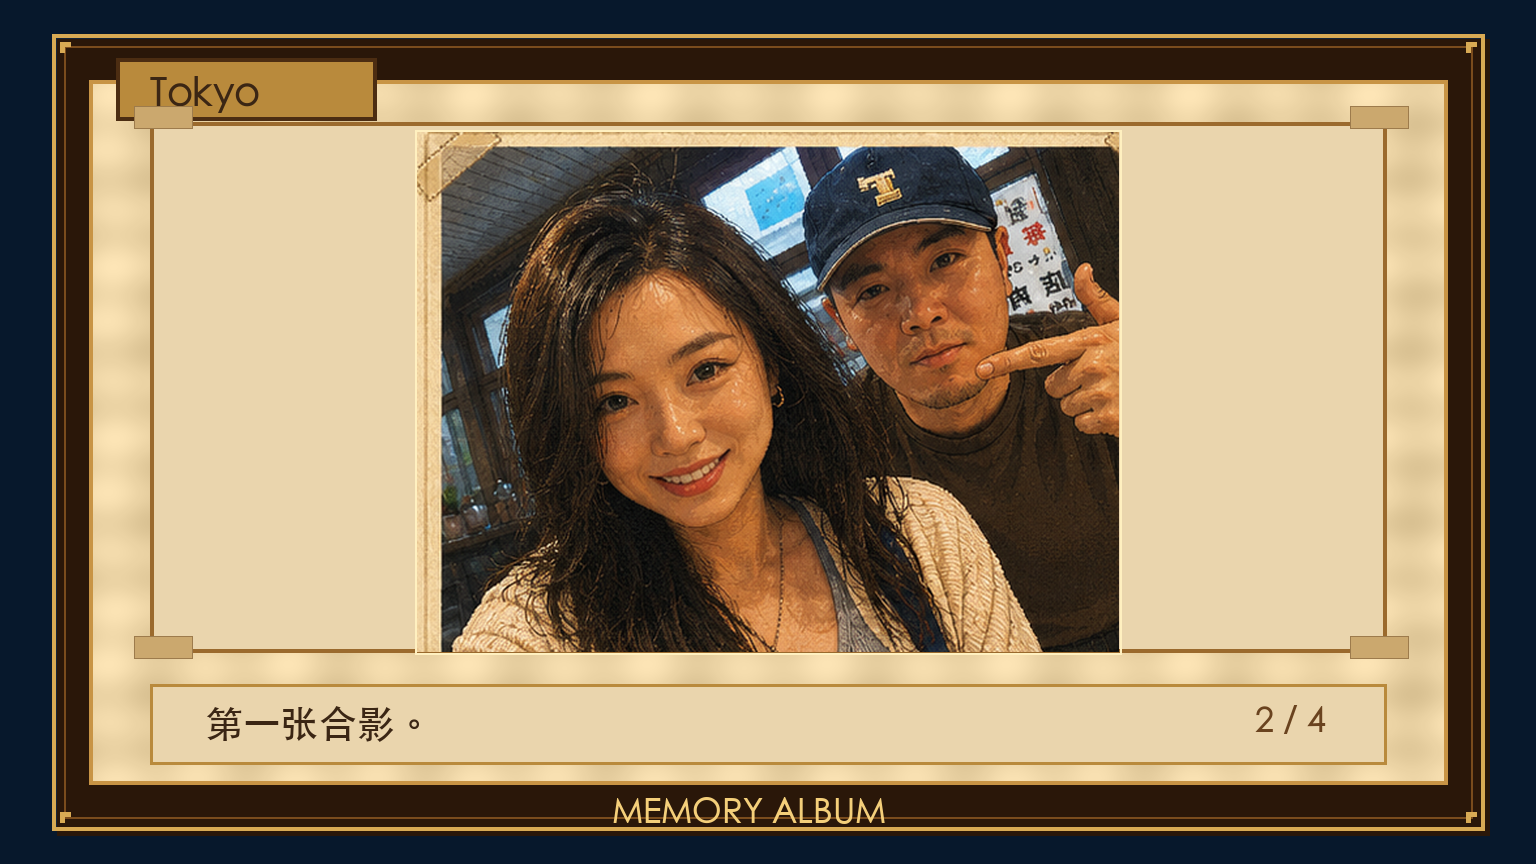
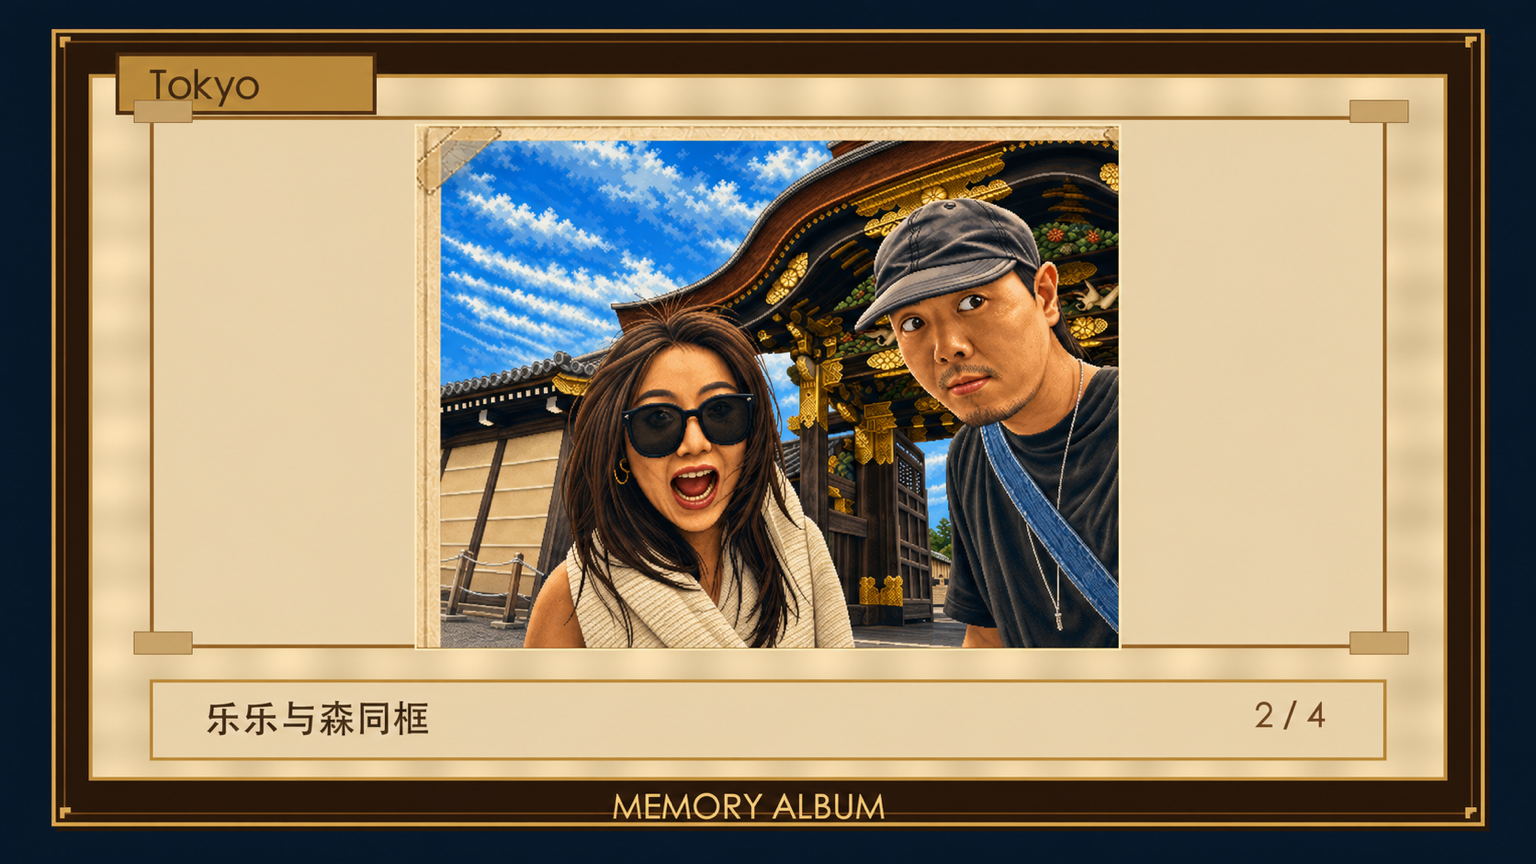
new album

diff --git a/main.js b/main.js
@@ -2056,7 +2056,7 @@ const storyCGs = {
         memoryAlbum: true
     },
     tokyoFirstSelfieMemory: {
-        src: "assets/cg/memory-album/tokyo-first-selfie.png?v=0.9.7.5-single",
+        src: "assets/cg/memory-album/tokyo-first-selfie.png?v=20260801-memory-album-v2",
         focalX: 0.5,
         focalY: 0.5,
         mobileDisplay: "contain",
